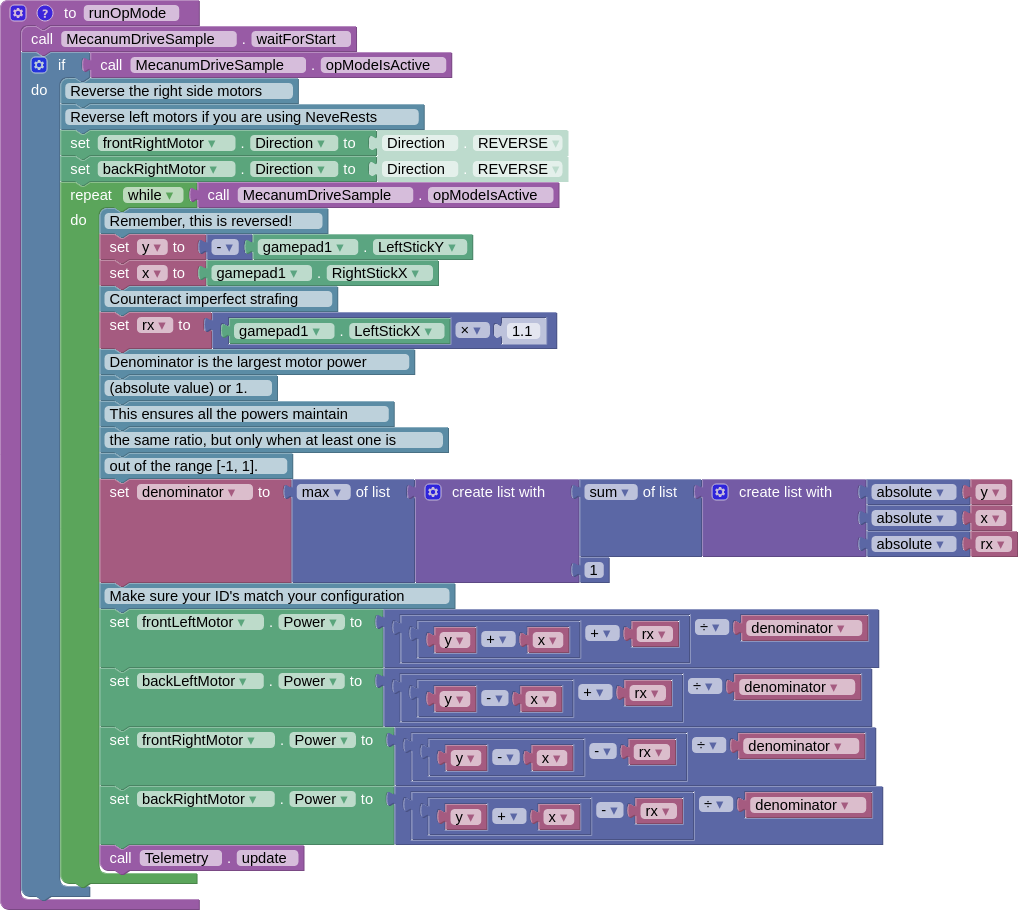
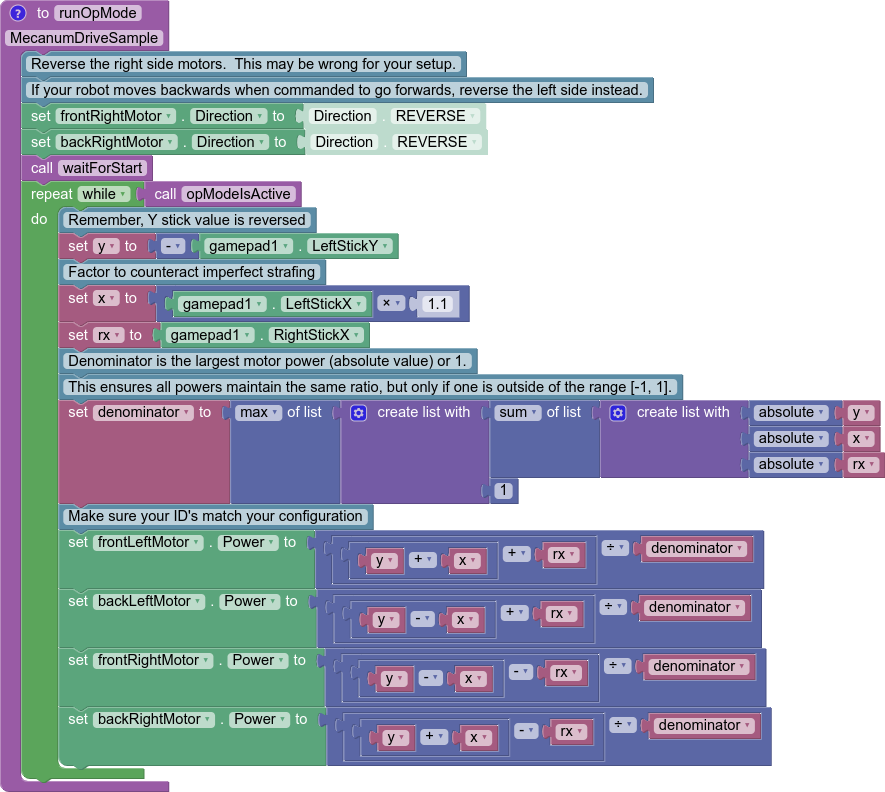
Cleanup mecanum programming page (#387)
- Clean up 2 motor drive example to use "rx".

Since all of the remaining code examples use "rx" (right stick x)
as the variable name for in-place turns, do that here also.

- Clean up block code for initial strafing.

- Clean up counteract strafe example.

- Update blocks code for scaling values.

- Make final Java code consistent with earlier code.

This corrects the Java code to use the same motor
variables as earlier examples, as well as the Blocks
code.

- Update final blocks code.

- Update field-centric code to match other examples.

- Improve the text description in a few places.

diff --git a/source/docs/software/tutorials/mecanum-drive.rst b/source/docs/software/tutorials/mecanum-drive.rst
@@ -42,7 +42,7 @@ Before thinking about mecanum, envision a scenario where you have a 2 motor tank
 
       .. code-block::
 
-         double y = -gamepad1.left_stick_y; // Remember, this is reversed!
+         double y = -gamepad1.left_stick_y; // Remember, Y stick is reversed!
 
          leftMotor.setPower(y);
          rightMotor.setPower(y);
@@ -54,7 +54,7 @@ Before thinking about mecanum, envision a scenario where you have a 2 motor tank
       .. image:: images/mecanum-drive/mecanum-drive-blocks-sample-1.png
          :width: 45em
 
-Although at first adding rotation might seem like a difficult task, it’s actually super simple. All you need to do is subtract the x value from the right side, and add it to the left:
+Although at first adding rotation might seem like a difficult task, it’s actually super simple. All you need to do is subtract the right X stick value from the right wheels, and add it to the left:
 
 .. tab-set::
 
@@ -63,11 +63,11 @@ Although at first adding rotation might seem like a difficult task, it’s actua
 
       .. code-block::
 
-         double y = -gamepad1.left_stick_y; // Remember, this is reversed!
-         double x = gamepad1.right_stick_x;
+         double y = -gamepad1.left_stick_y; // Remember, Y stick is reversed!
+         double rx = gamepad1.right_stick_x;
 
-         leftMotor.setPower(y + x);
-         rightMotor.setPower(y - x);
+         leftMotor.setPower(y + rx);
+         rightMotor.setPower(y - rx);
 
    .. tab-item:: Blocks
       :sync: blocks
@@ -76,11 +76,11 @@ Although at first adding rotation might seem like a difficult task, it’s actua
          :width: 45em
 
 
-Here, if the Y stick is pressed upwards, both of the motors will be fed a positive value, causing the robot to move forward. If it is pressed downwards, both of the motors will be fed a negative value, causing the robot to move backwards. A similar principle applies for rotation: if the X stick is pushed rightward, the left wheels will spin forward while the right spin backward, causing rotation. The opposite applies for pushing the stick left. If both sticks are pushed at the same time, say the Y stick is at 1 and the X stick is also at 1, the value of the left wheels will be :math:`1+1=2` (which gets clipped to 1 in the SDK) and the right wheels will be :math:`1-1=0`, which causes a rightward curve.
+Here, if the left stick is pressed upwards, both of the motors will be fed a positive value, causing the robot to move forward. If it is pressed downwards, both of the motors will be fed a negative value, causing the robot to move backwards. A similar principle applies for rotation: if the right stick is pushed rightward, the left wheels will spin forward while the right spin backward, causing rotation. The opposite applies for pushing the stick left. If both sticks are pushed at the same time, say the left Y stick is at 1 and the right X stick is also at 1, the value of the left wheels will be :math:`1+1=2` (which gets clipped to 1 in the SDK) and the right wheels will be :math:`1-1=0`, which causes a rightward curve.
 
-Applying omnidirectional movement with :term:`mecanum wheels <Mecanum Wheel>` operates under the same principle as adding turning into the tank example. The left stick X values will be added or subtracted to each wheel depending on how that wheel needs to rotate to get the desired movement. The only difference between adding turning is that rather than wheels on the same side being the same sign, wheels diagonal to each other will be the same sign.
+Applying omnidirectional movement with :term:`mecanum wheels <Mecanum Wheel>` operates under the same principle as adding turning into the tank example. The left stick X values will be added or subtracted to each wheel depending on how that wheel needs to rotate to get the desired movement. The only difference from turning is that rather than wheels on the same side being the same sign, wheels diagonal to each other will be the same sign.
 
-We want a positive X value to correlate to rightward strafing. If we refer back to the vectoring image, this means that the front left and back right need to rotate forward, while the back left and front right need to rotate backwards. So, we should add the x value to the front left and back right and subtract it from the back right and front left:
+We want a positive left stick X value to correlate to rightward strafing. If we refer back to the vectoring image, this means that the front left and back right need to rotate forward, while the back left and front right need to rotate backwards. So, we should add the x value to the front left and back right and subtract it from the back right and front left:
 
 .. tab-set::
 
@@ -89,7 +89,7 @@ We want a positive X value to correlate to rightward strafing. If we refer back 
 
       .. code-block::
 
-         double y = -gamepad1.left_stick_y; // Remember, this is reversed!
+         double y = -gamepad1.left_stick_y; // Remember, Y stick is reversed!
          double x = gamepad1.left_stick_x;
          double rx = gamepad1.right_stick_x;
 
@@ -110,7 +110,7 @@ We want a positive X value to correlate to rightward strafing. If we refer back 
 
    On most drivetrains, you will need to reverse the left side for positive power to move forwards with most motors, and reverse the right side with NeveRests. The presence of gearing between the motor gearbox and the wheel may swap this, which is the case for the goBILDA Strafer and the REV Mecanum Drivetrain Kit.
 
-This is the same as the tank example, except now with 4 motors and the strafing component added. Similarly to the tank example, the Y component is added to all wheels, and the right x (rx) is added to the left and subtracted from the right. Now, we have added another component that will allow us to strafe rightward. In doing that, however, we have actually allowed for strafing in any direction. If you think about it, pressing the joystick to the left will do the same thing in reverse, which is what is needed to strafe left. If it is pressed at 45 degrees, the x and y components of the joystick will be equal. This will cause two diagonal motors to cancel, allowing for diagonal movement. This same effect applies to every angle of the joystick.
+This is the same as the tank example, except now with 4 motors and the strafing component added. Similarly to the tank example, the Y component is added to all wheels, and the right X (rx) is added to the left wheels and subtracted from the right. Now, we have added a left X component (x) that allows us to strafe rightward. In doing that, however, we have actually allowed for strafing in any direction. If you think about it, pressing the left joystick to the left will do the same thing in reverse, which is what is needed to strafe left. If it is pressed at 45 degrees, the x and y components of the joystick will be equal. This will cause two diagonal motors to cancel, allowing for diagonal movement. This same effect applies to every angle of the joystick.
 
 Now that we have a functioning mecanum driving program, there are a few things that can be done to clean it up. The first of these would be multiplying the left X value by something to counteract imperfect strafing. Doing this will make the drive feel more accurate on non axis aligned directions, and make field centric driving more accurate. In this tutorial, we will use 1.1, but it’s really up to driver preference.
 
@@ -121,7 +121,7 @@ Now that we have a functioning mecanum driving program, there are a few things t
 
       .. code-block::
 
-         double y = -gamepad1.left_stick_y; // Remember, this is reversed!
+         double y = -gamepad1.left_stick_y; // Remember, Y stick is reversed!
          double x = gamepad1.left_stick_x * 1.1; // Counteract imperfect strafing
          double rx = gamepad1.right_stick_x;
 
@@ -185,44 +185,44 @@ Robot-Centric Final Sample Code
              public void runOpMode() throws InterruptedException {
                  // Declare our motors
                  // Make sure your ID's match your configuration
-                 DcMotor motorFrontLeft = hardwareMap.dcMotor.get("motorFrontLeft");
-                 DcMotor motorBackLeft = hardwareMap.dcMotor.get("motorBackLeft");
-                 DcMotor motorFrontRight = hardwareMap.dcMotor.get("motorFrontRight");
-                 DcMotor motorBackRight = hardwareMap.dcMotor.get("motorBackRight");
+                 DcMotor frontLeftMotor = hardwareMap.dcMotor.get("frontLeftMotor");
+                 DcMotor backLeftMotor = hardwareMap.dcMotor.get("backLeftMotor");
+                 DcMotor frontRightMotor = hardwareMap.dcMotor.get("frontRightMotor");
+                 DcMotor backRightMotor = hardwareMap.dcMotor.get("backRightMotor");
 
-                 // Reverse the right side motors.
-                 // This may be wrong for your setup.
+                 // Reverse the right side motors. This may be wrong for your setup.
                  // If your robot moves backwards when commanded to go forwards,
                  // reverse the left side instead.
                  // See the note about this earlier on this page.
-                 motorFrontRight.setDirection(DcMotorSimple.Direction.REVERSE);
-                 motorBackRight.setDirection(DcMotorSimple.Direction.REVERSE);
+                 frontRightMotor.setDirection(DcMotorSimple.Direction.REVERSE);
+                 backRightMotor.setDirection(DcMotorSimple.Direction.REVERSE);
 
                  waitForStart();
 
                  if (isStopRequested()) return;
 
                  while (opModeIsActive()) {
-                     double y = -gamepad1.left_stick_y; // Remember, this is reversed!
+                     double y = -gamepad1.left_stick_y; // Remember, Y stick value is reversed
                      double x = gamepad1.left_stick_x * 1.1; // Counteract imperfect strafing
                      double rx = gamepad1.right_stick_x;
 
                      // Denominator is the largest motor power (absolute value) or 1
-                     // This ensures all the powers maintain the same ratio, but only when
-                     // at least one is out of the range [-1, 1]
+                     // This ensures all the powers maintain the same ratio,
+                     // but only if at least one is out of the range [-1, 1]
                      double denominator = Math.max(Math.abs(y) + Math.abs(x) + Math.abs(rx), 1);
                      double frontLeftPower = (y + x + rx) / denominator;
                      double backLeftPower = (y - x + rx) / denominator;
                      double frontRightPower = (y - x - rx) / denominator;
                      double backRightPower = (y + x - rx) / denominator;
 
-                     motorFrontLeft.setPower(frontLeftPower);
-                     motorBackLeft.setPower(backLeftPower);
-                     motorFrontRight.setPower(frontRightPower);
-                     motorBackRight.setPower(backRightPower);
+                     frontLeftMotor.setPower(frontLeftPower);
+                     backLeftMotor.setPower(backLeftPower);
+                     frontRightMotor.setPower(frontRightPower);
+                     backRightMotor.setPower(backRightPower);
                  }
              }
          }
+
    .. tab-item:: Blocks
       :sync: blocks
 
@@ -295,9 +295,12 @@ Field-Centric Final Sample Code
    package org.firstinspires.ftc.teamcode;
 
    import com.qualcomm.robotcore.eventloop.opmode.LinearOpMode;
+   import com.qualcomm.robotcore.hardware.IMU;
    import com.qualcomm.robotcore.eventloop.opmode.TeleOp;
    import com.qualcomm.robotcore.hardware.DcMotor;
    import com.qualcomm.robotcore.hardware.DcMotorSimple;
+   import com.qualcomm.hardware.rev.RevHubOrientationOnRobot;
+   import org.firstinspires.ftc.robotcore.external.navigation.AngleUnit;
 
    @TeleOp
    public class FieldCentricMecanumTeleOp extends LinearOpMode {
@@ -305,21 +308,20 @@ Field-Centric Final Sample Code
        public void runOpMode() throws InterruptedException {
            // Declare our motors
            // Make sure your ID's match your configuration
-           DcMotor motorFrontLeft = hardwareMap.dcMotor.get("motorFrontLeft");
-           DcMotor motorBackLeft = hardwareMap.dcMotor.get("motorBackLeft");
-           DcMotor motorFrontRight = hardwareMap.dcMotor.get("motorFrontRight");
-           DcMotor motorBackRight = hardwareMap.dcMotor.get("motorBackRight");
+           DcMotor frontLeftMotor = hardwareMap.dcMotor.get("frontLeftMotor");
+           DcMotor backLeftMotor = hardwareMap.dcMotor.get("backLeftMotor");
+           DcMotor frontRightMotor = hardwareMap.dcMotor.get("frontRightMotor");
+           DcMotor backRightMotor = hardwareMap.dcMotor.get("backRightMotor");
 
-           // Reverse the right side motors.
-           // This may be wrong for your setup.
+           // Reverse the right side motors. This may be wrong for your setup.
            // If your robot moves backwards when commanded to go forwards,
            // reverse the left side instead.
            // See the note about this earlier on this page.
-           motorFrontRight.setDirection(DcMotorSimple.Direction.REVERSE);
-           motorBackRight.setDirection(DcMotorSimple.Direction.REVERSE);
+           frontRightMotor.setDirection(DcMotorSimple.Direction.REVERSE);
+           backRightMotor.setDirection(DcMotorSimple.Direction.REVERSE);
 
            // Retrieve the IMU from the hardware map
-           imu = hardwareMap.get(IMU.class, "imu");
+           IMU imu = hardwareMap.get(IMU.class, "imu");
            // Adjust the orientation parameters to match your robot
            IMU.Parameters parameters = new IMU.Parameters(new RevHubOrientationOnRobot(
                    RevHubOrientationOnRobot.LogoFacingDirection.UP,
@@ -332,7 +334,7 @@ Field-Centric Final Sample Code
            if (isStopRequested()) return;
 
            while (opModeIsActive()) {
-               double y = -gamepad1.left_stick_y; // Remember, this is reversed!
+               double y = -gamepad1.left_stick_y; // Remember, Y stick value is reversed
                double x = gamepad1.left_stick_x * 1.1; // Counteract imperfect strafing
                double rx = gamepad1.right_stick_x;
 
@@ -350,18 +352,18 @@ Field-Centric Final Sample Code
                double rotY = x * Math.sin(-botHeading) + y * Math.cos(-botHeading);
 
                // Denominator is the largest motor power (absolute value) or 1
-               // This ensures all the powers maintain the same ratio, but only when
-               // at least one is out of the range [-1, 1]
+               // This ensures all the powers maintain the same ratio,
+               // but only if at least one is out of the range [-1, 1]
                double denominator = Math.max(Math.abs(rotY) + Math.abs(rotX) + Math.abs(rx), 1);
                double frontLeftPower = (rotY + rotX + rx) / denominator;
                double backLeftPower = (rotY - rotX + rx) / denominator;
                double frontRightPower = (rotY - rotX - rx) / denominator;
                double backRightPower = (rotY + rotX - rx) / denominator;
 
-               motorFrontLeft.setPower(frontLeftPower);
-               motorBackLeft.setPower(backLeftPower);
-               motorFrontRight.setPower(frontRightPower);
-               motorBackRight.setPower(backRightPower);
+               frontLeftMotor.setPower(frontLeftPower);
+               backLeftMotor.setPower(backLeftPower);
+               frontRightMotor.setPower(frontRightPower);
+               backRightMotor.setPower(backRightPower);
            }
        }
    }
